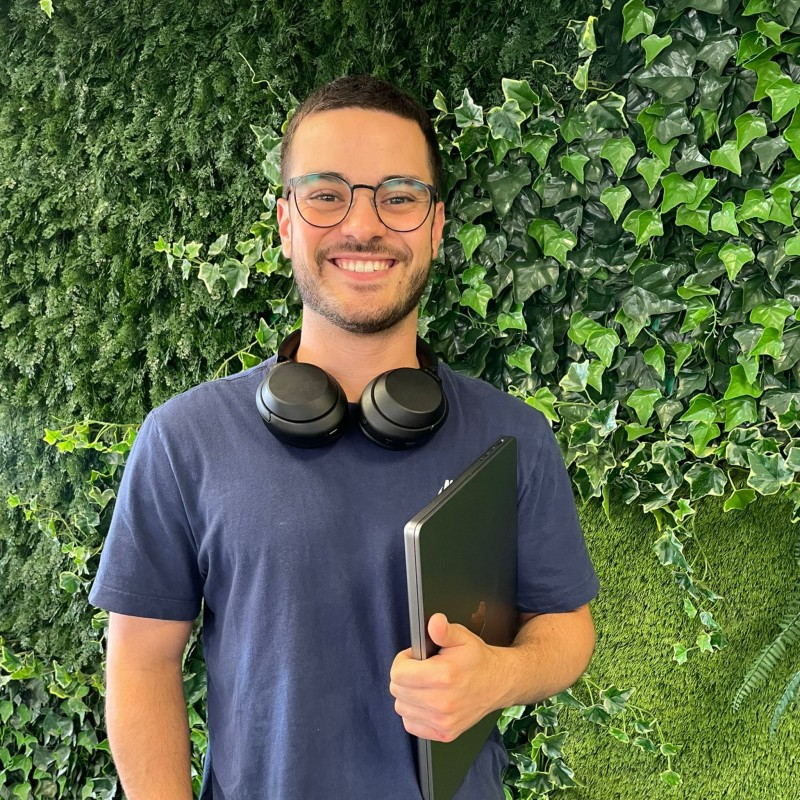
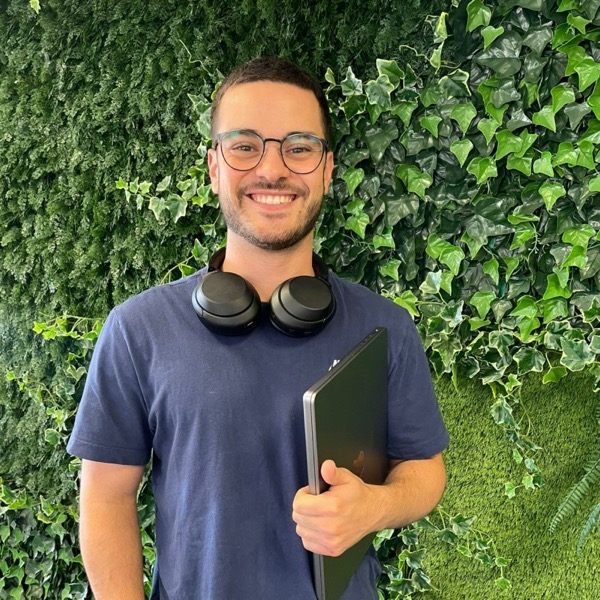
:sparkles: Photos gallery with lightbox, centred desktop nav, lighter images
- Photos: show all six landscape photos with descriptive alt text; tiles
  are keyboard-focusable buttons that open a new Lightbox (arrow keys and
  buttons with wrap-around, swipe on mobile, Esc/backdrop/X to close,
  focus trap and focus return, scroll lock, portalled above the navbar)
- Nav: use a 1fr|auto|1fr grid on desktop so the links stay exactly
  centred regardless of logo/button width
- Images: downscale juniorDave (2.1 MB -> 264 KB), remotewithAndy
  (668 KB -> 292 KB) and profilepic (260 KB -> 168 KB); public/ goes
  from 6.0 MB to 3.7 MB

diff --git a/components/Photos/Lightbox.tsx b/components/Photos/Lightbox.tsx
@@ -1,0 +1,136 @@
+"use client";
+import React from "react";
+import Image from "next/image";
+import { createPortal } from "react-dom";
+import { HiChevronLeft, HiChevronRight, HiXMark } from "react-icons/hi2";
+
+export type Photo = {
+  src: string;
+  alt: string;
+};
+
+type Props = {
+  photos: Photo[];
+  index: number;
+  onClose: () => void;
+  onNavigate: (index: number) => void;
+};
+
+const SWIPE_THRESHOLD_PX = 50;
+
+const Lightbox = ({ photos, index, onClose, onNavigate }: Props) => {
+  const dialogRef = React.useRef<HTMLDivElement>(null);
+  const closeButtonRef = React.useRef<HTMLButtonElement>(null);
+  const touchStartX = React.useRef<number | null>(null);
+
+  const photo = photos[index];
+  const showPrev = () => onNavigate((index - 1 + photos.length) % photos.length);
+  const showNext = () => onNavigate((index + 1) % photos.length);
+
+  // Lock page scroll and move focus into the dialog; give focus back to the
+  // photo that opened it when the dialog closes.
+  React.useEffect(() => {
+    const previouslyFocused = document.activeElement as HTMLElement | null;
+    const previousOverflow = document.body.style.overflow;
+    document.body.style.overflow = "hidden";
+    closeButtonRef.current?.focus();
+
+    return () => {
+      document.body.style.overflow = previousOverflow;
+      previouslyFocused?.focus();
+    };
+  }, []);
+
+  React.useEffect(() => {
+    const count = photos.length;
+    const onKeyDown = (event: KeyboardEvent) => {
+      if (event.key === "Escape") onClose();
+      else if (event.key === "ArrowLeft") onNavigate((index - 1 + count) % count);
+      else if (event.key === "ArrowRight") onNavigate((index + 1) % count);
+      else if (event.key === "Tab") {
+        // Keep keyboard focus inside the dialog.
+        const focusable = dialogRef.current?.querySelectorAll<HTMLElement>("button");
+        if (!focusable?.length) return;
+        const first = focusable[0];
+        const last = focusable[focusable.length - 1];
+        if (event.shiftKey && document.activeElement === first) {
+          event.preventDefault();
+          last.focus();
+        } else if (!event.shiftKey && document.activeElement === last) {
+          event.preventDefault();
+          first.focus();
+        }
+      }
+    };
+
+    window.addEventListener("keydown", onKeyDown);
+    return () => window.removeEventListener("keydown", onKeyDown);
+  }, [index, photos.length, onClose, onNavigate]);
+
+  const onTouchStart = (event: React.TouchEvent) => {
+    touchStartX.current = event.touches[0].clientX;
+  };
+
+  const onTouchEnd = (event: React.TouchEvent) => {
+    if (touchStartX.current === null) return;
+    const deltaX = event.changedTouches[0].clientX - touchStartX.current;
+    touchStartX.current = null;
+    if (deltaX > SWIPE_THRESHOLD_PX) showPrev();
+    else if (deltaX < -SWIPE_THRESHOLD_PX) showNext();
+  };
+
+  const navButton =
+    "absolute top-1/2 -translate-y-1/2 p-2 sm:p-3 rounded-full bg-black/50 text-white hover:bg-green-700 transition-colors cursor-pointer";
+
+  // Portal to <body> so the dialog sits above the fixed navbar instead of
+  // inside the photos page's stacking context.
+  return createPortal(
+    <div
+      ref={dialogRef}
+      role="dialog"
+      aria-modal="true"
+      aria-label={`${photo.alt} (${index + 1} of ${photos.length})`}
+      className="fixed inset-0 z-20000 flex items-center justify-center bg-black/90 backdrop-blur-sm"
+      onClick={(event) => {
+        if (event.target === event.currentTarget) onClose();
+      }}
+      onTouchStart={onTouchStart}
+      onTouchEnd={onTouchEnd}
+    >
+      <div className="relative w-[min(90vw,80vh)] aspect-square">
+        <Image
+          key={photo.src}
+          src={photo.src}
+          alt={photo.alt}
+          fill
+          loading="eager"
+          sizes="(max-width: 768px) 90vw, 80vh"
+          className="object-contain rounded-xl"
+        />
+      </div>
+
+      <p className="absolute bottom-6 left-1/2 -translate-x-1/2 text-sm text-gray-300">
+        {index + 1} / {photos.length}
+      </p>
+
+      <button
+        ref={closeButtonRef}
+        type="button"
+        onClick={onClose}
+        aria-label="Close"
+        className="absolute top-4 right-4 p-2 rounded-full bg-black/50 text-white hover:bg-green-700 transition-colors cursor-pointer"
+      >
+        <HiXMark className="w-7 h-7" />
+      </button>
+      <button type="button" onClick={showPrev} aria-label="Previous photo" className={`${navButton} left-2 sm:left-6`}>
+        <HiChevronLeft className="w-6 h-6 sm:w-8 sm:h-8" />
+      </button>
+      <button type="button" onClick={showNext} aria-label="Next photo" className={`${navButton} right-2 sm:right-6`}>
+        <HiChevronRight className="w-6 h-6 sm:w-8 sm:h-8" />
+      </button>
+    </div>,
+    document.body
+  );
+};
+
+export default Lightbox;

diff --git a/components/Photos/PhotoGrid.tsx b/components/Photos/PhotoGrid.tsx
@@ -1,22 +1,42 @@
 "use client";
 import React from "react";
 import PhotoItem from "./PhotoItem";
+import Lightbox, { type Photo } from "./Lightbox";
 
-const photos = [
-  { src: "/images/photos/architecture.png", alt: "Modern Architecture" },
-  { src: "/images/photos/art.png", alt: "Public Art" },
-  { src: "/images/photos/nature_path.png", alt: "Nature Path" },
-
+const photos: Photo[] = [
+  { src: "/images/photos/architecture.png", alt: "White apartment building with balconies behind a palm tree" },
+  { src: "/images/photos/art.png", alt: "Stack of rainbow-painted stones in a park with palm trees" },
+  { src: "/images/photos/nature_path.png", alt: "Stone path through a tropical palm forest" },
+  { src: "/images/photos/chinatown.png", alt: "Busy Chinatown street lit by red lanterns and neon signs" },
+  { src: "/images/photos/ferris_wheel.png", alt: "Colourful Ferris wheel at a crowded fairground" },
+  { src: "/images/photos/red_cabin.png", alt: "Red wooden cabin in a snowy pine forest" },
 ];
 
 const PhotoGrid = () => {
+  const [openIndex, setOpenIndex] = React.useState<number | null>(null);
+
   return (
     <section className="py-16 px-4 max-w-6xl mx-auto">
       <div className="grid grid-cols-1 sm:grid-cols-2 lg:grid-cols-3 gap-6">
         {photos.map((photo, index) => (
-          <PhotoItem key={index} src={photo.src} alt={photo.alt} eager={index < 3} />
+          <PhotoItem
+            key={photo.src}
+            src={photo.src}
+            alt={photo.alt}
+            eager={index < 3}
+            onOpen={() => setOpenIndex(index)}
+          />
         ))}
       </div>
+
+      {openIndex !== null && (
+        <Lightbox
+          photos={photos}
+          index={openIndex}
+          onClose={() => setOpenIndex(null)}
+          onNavigate={setOpenIndex}
+        />
+      )}
     </section>
   );
 };

diff --git a/components/Home/Navbar/Nav.tsx b/components/Home/Navbar/Nav.tsx
@@ -30,7 +30,9 @@ export const Nav = ({ openNav }: Props) => {
         navBg ? "bg-[#000000d9] shadow-md " : "fixed"
       } duration-200 h-[12vh] z-10000 fixed w-full`}  
     >
-        <div className="flex items-center h-full justify-between w-[90%] mx-auto">
+        {/* On desktop a 1fr | auto | 1fr grid keeps the links exactly centred,
+            whatever the width of the logo or the buttons */}
+        <div className="flex items-center h-full justify-between w-[90%] mx-auto lg:grid lg:grid-cols-[1fr_auto_1fr]">
             {/*LOGO*/}
             <div className="flex items-center space-x-2">
             <div className="w-10 h-10 bg-gray-500 rounded-full flex items-center justify-center flex-col">
@@ -60,7 +62,7 @@ export const Nav = ({ openNav }: Props) => {
             })}
             </div>
             {/*Buttons*/}
-            <div className="flex items-center space-x-4">
+            <div className="flex items-center justify-self-end space-x-4">
             {/* CV Button */}
             <button
             onClick={() =>

diff --git a/components/Photos/PhotoItem.tsx b/components/Photos/PhotoItem.tsx
@@ -6,11 +6,18 @@ type Props = {
   src: string;
   alt: string;
   eager?: boolean;
+  onOpen: () => void;
 };
 
-const PhotoItem = ({ src, alt, eager = false }: Props) => {
+const PhotoItem = ({ src, alt, eager = false, onOpen }: Props) => {
   return (
-    <div className="relative aspect-3/4 overflow-hidden rounded-xl bg-gray-900 group">
+    <button
+      type="button"
+      onClick={onOpen}
+      aria-label={`Open photo: ${alt}`}
+      className="relative block w-full aspect-3/4 overflow-hidden rounded-xl bg-gray-900 group cursor-zoom-in
+        focus-visible:outline-none focus-visible:ring-4 focus-visible:ring-green-500"
+    >
       <Image
         src={src}
         alt={alt}
@@ -19,7 +26,7 @@ const PhotoItem = ({ src, alt, eager = false }: Props) => {
         sizes="(max-width: 768px) 100vw, (max-width: 1200px) 50vw, 33vw"
         className="object-cover transition-transform duration-500 group-hover:scale-105"
       />
-    </div>
+    </button>
   );
 };
 
